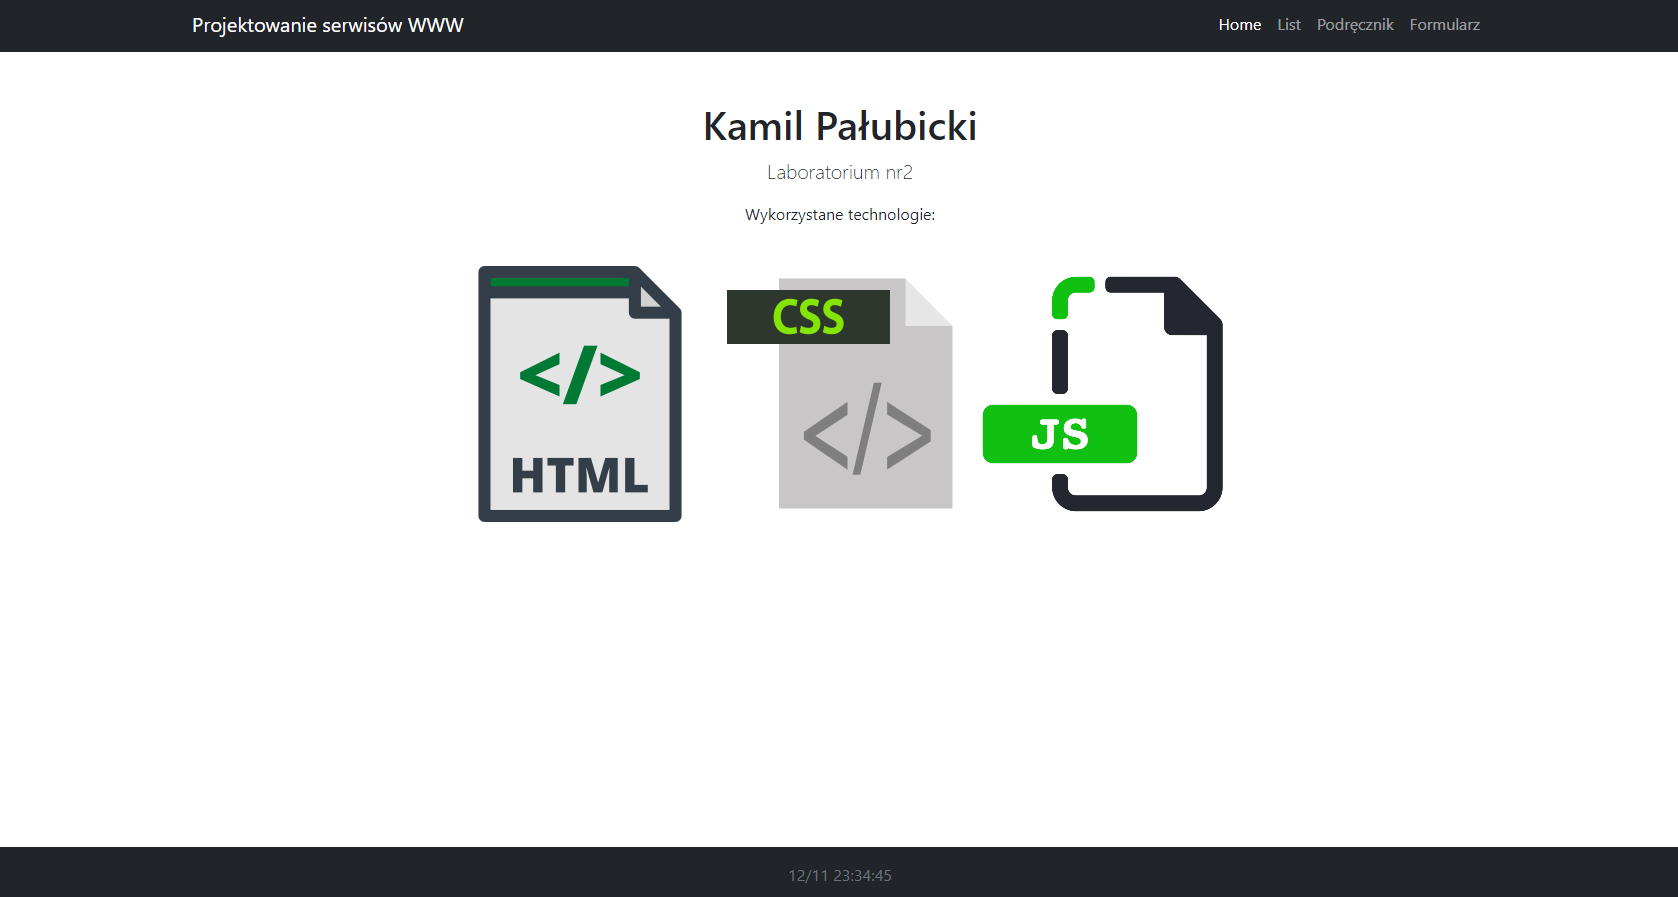
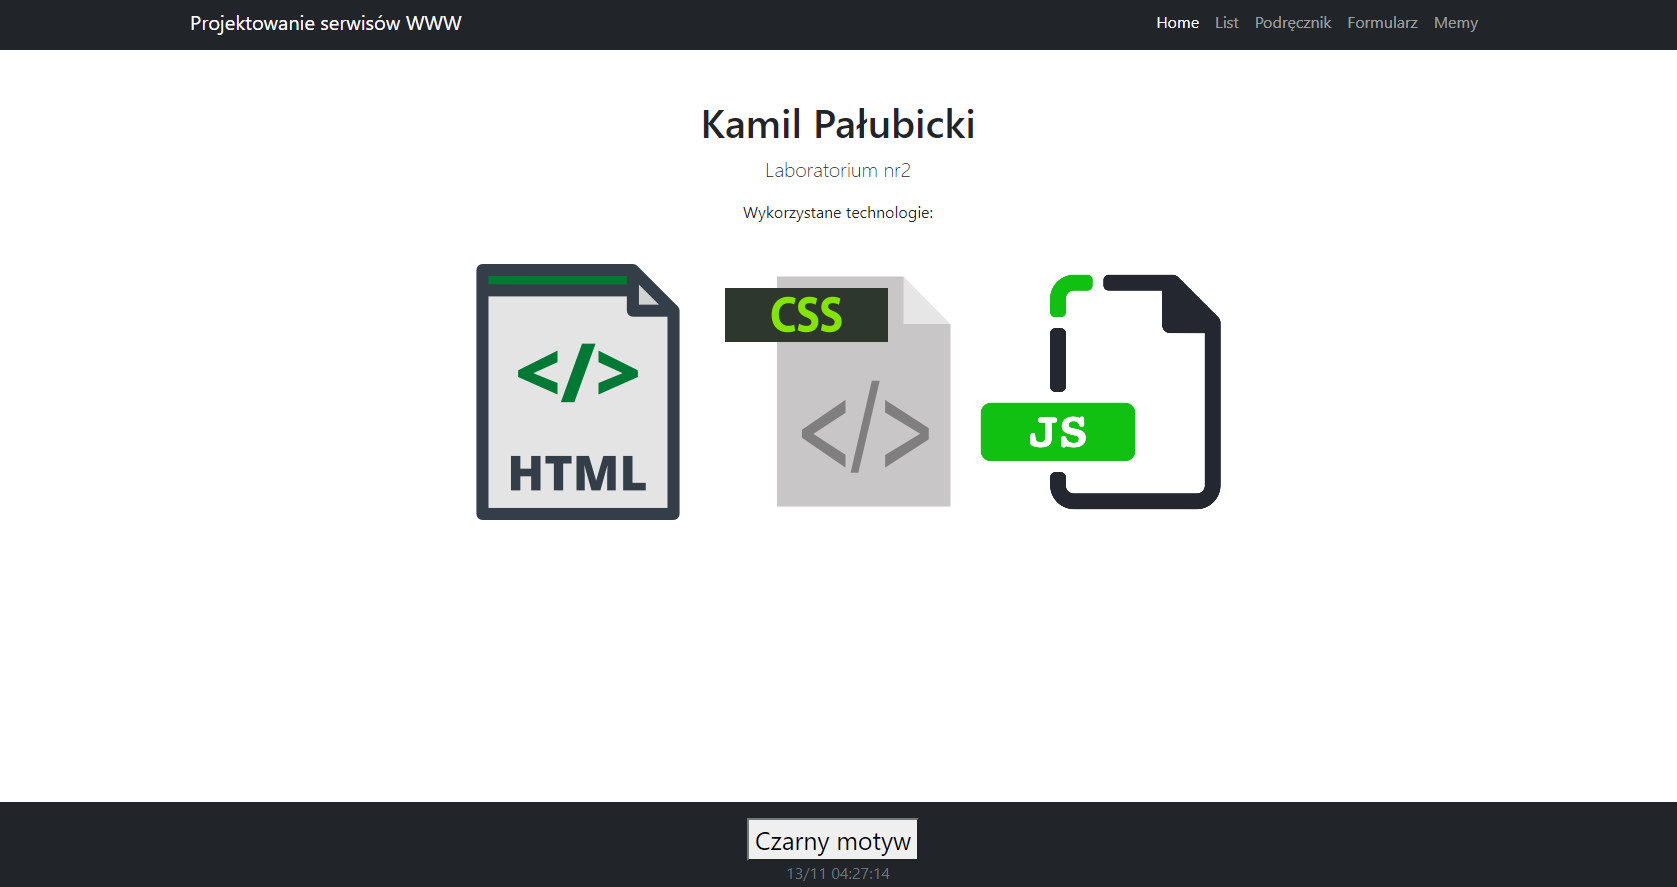
README.md update and add some features

diff --git a/Lab2/memy.html b/Lab2/memy.html
@@ -1,0 +1,66 @@
+<!DOCTYPE html>
+<html lang="en">
+<head>
+    <meta charset="utf-8" />
+    <meta name="viewport" content="width=device-width, initial-scale=1, shrink-to-fit=no" />
+    <meta name="description" content="" />
+    <meta name="author" content="Kamil Pałubicki" />
+    <title></title>
+    <!-- Favicon-->
+    <link rel="icon" type="image/x-icon" href="assets/favicon.ico" />
+    <!-- Core theme CSS (includes Bootstrap)-->
+    <link href="css/styles.css" rel="stylesheet" />
+    <link href="css/lidi.css" rel="stylesheet" />
+</head>
+<body onload="lidi.attach()" id="content">
+<!-- Responsive navbar-->
+<nav class="navbar navbar-expand-lg navbar-dark bg-dark">
+    <div class="container">
+        <a class="navbar-brand" href="#">Projektowanie serwisów WWW</a>
+        <button class="navbar-toggler" type="button" data-bs-toggle="collapse" data-bs-target="#navbarSupportedContent" aria-controls="navbarSupportedContent" aria-expanded="false" aria-label="Toggle navigation"><span class="navbar-toggler-icon"></span></button>
+        <div class="collapse navbar-collapse" id="navbarSupportedContent">
+            <ul class="navbar-nav ms-auto mb-2 mb-lg-0">
+                <li class="nav-item"><a class="nav-link" href="index.html">Home</a></li>
+                <li class="nav-item"><a class="nav-link" href="list.html">List</a></li>
+                <li class="nav-item"><a class="nav-link" href="podrecznik.html">Podręcznik</a></li>
+                <li class="nav-item"><a class="nav-link" href="formularz.html">Formularz</a></li>
+                <li class="nav-item"><a class="nav-link active" aria-current="page" href="memy.html">Memy</a></li>
+            </ul>
+        </div>
+    </div>
+</nav>
+<!-- Page content-->
+<div class="container">
+    <div class="text-center mt-5">
+        <h1>Memy</h1>
+        <img src="img/jsmeme.png"><br><br>
+        <div class="buttons-like-dislike" id="demoA"></div><br><br><br><br><br><br><br><br>
+    </div>
+</div>
+<footer class="footer-sticky mt-auto py-3 bg-dark">
+    <div class="letter-content" id="button"></div>
+    <div id="clock" class="text-muted">
+        time
+    </div>
+</footer>
+<!-- Bootstrap core JS-->
+<script src="https://cdn.jsdelivr.net/npm/bootstrap@5.1.3/dist/js/bootstrap.bundle.min.js"></script>
+<!-- Core theme JS-->
+<script src="js/index.js"></script>
+<script src="js/lidi.js"></script>
+<script>
+    lidi.create({
+        status : 1, // DEFAULT STATUS, 1 LIKE, -1 DISLIKE
+        hWrap : document.getElementById("demoA"),
+        onChange : (status) => {
+            var data = new FormData();
+            data.append("status", status);
+            fetch("js/1-dummy.txt", { method: "POST", body: data })
+                .then(res => res.text())
+                .then((txt) => { console.log(txt); })
+                .catch((err) => { console.error(err); });
+        }
+    });
+</script>
+</body>
+</html>

diff --git a/Lab2/js/lidi.js b/Lab2/js/lidi.js
@@ -1,0 +1,43 @@
+var lidi = {
+  create : (opt) => {
+    let inst = opt;
+    if (!inst.status) { inst.status = 0; }
+
+    // WRAPPER
+    inst.hWrap.classList.add("lidiWrap");
+    if (inst.count) { inst.hWrap.classList.add("count"); }
+
+    // LIKE BUTTON
+    inst.hUp = document.createElement("div");
+    inst.hUp.className = "lidiUp";
+    if (inst.status==1) { inst.hUp.classList.add("set"); }
+    inst.hWrap.appendChild(inst.hUp);
+
+    // DISLIKE BUTTON
+    inst.hDown = document.createElement("div");
+    inst.hDown.className = "lidiDown";
+    if (inst.status==-1) { inst.hDown.classList.add("set"); }
+    inst.hWrap.appendChild(inst.hDown);
+
+    inst.hUp.addEventListener("click", () => { lidi.updown(inst, true); });
+    inst.hDown.addEventListener("click", () => { lidi.updown(inst, false); });
+
+    return inst;
+  },
+
+  updown : (inst, up) => {
+    if (up) { inst.status = inst.status == 1 ? 0 : 1; }
+    else { inst.status = inst.status == -1 ? 0 : -1; }
+
+    if (inst.status==1) {
+      inst.hUp.classList.add("set");
+      inst.hDown.classList.remove("set");
+    } else if (inst.status==-1) {
+      inst.hUp.classList.remove("set");
+      inst.hDown.classList.add("set");
+    } else {
+      inst.hUp.classList.remove("set");
+      inst.hDown.classList.remove("set");
+    }
+  },
+};

diff --git a/Lab2/index.html b/Lab2/index.html
@@ -11,7 +11,7 @@
         <!-- Core theme CSS (includes Bootstrap)-->
         <link href="css/styles.css" rel="stylesheet" />
     </head>
-    <body>
+    <body id="content">
         <!-- Responsive navbar-->
         <nav class="navbar navbar-expand-lg navbar-dark bg-dark">
             <div class="container">
@@ -23,6 +23,7 @@
                         <li class="nav-item"><a class="nav-link" href="list.html">List</a></li>
                         <li class="nav-item"><a class="nav-link" href="podrecznik.html">Podręcznik</a></li>
                         <li class="nav-item"><a class="nav-link" href="formularz.html">Formularz</a></li>
+                        <li class="nav-item"><a class="nav-link" href="memy.html">Memy</a></li>
                     </ul>
                 </div>
             </div>

diff --git a/Lab2/js/index.js b/Lab2/js/index.js
@@ -23,3 +23,20 @@ function clock(){
 var darktheme = document.createElement("button");
 darktheme.innerText = "Czarny motyw";
 darktheme.style.marginRight= "10px";
+
+document.getElementById("button").appendChild(darktheme);
+
+darktheme.onclick = function(){
+    document.getElementById("container").style.fontSize = "30px";
+};
+
+var content = document.getElementById("content");
+darktheme.onclick = function (){
+    if(content.style.color!=="black"){
+        content.style.backgroundColor="white";
+        content.style.color = "black";
+    }else {
+        content.style.backgroundColor = "black";
+        content.style.color = "white";
+    }
+}

diff --git a/Lab2/css/lidi.css b/Lab2/css/lidi.css
@@ -1,0 +1,26 @@
+.lidiWrap {
+    display: flex;
+    align-items: center;
+    padding: 10px;
+    border: 1px solid #c5c5c5;
+    background: #eee;
+    width: 40%;
+    justify-content: space-around;
+}
+.lidiWrap.count { max-width: 250px; }
+
+/* (B) LIKE-DISLIKE BUTTONS */
+.lidiUp, .lidiDown {
+    width: 24px; height: 24px;
+    background-image: url("/img/lidi.png");
+    cursor: pointer;
+}
+.lidiDown { background-position: -48px; }
+.lidiUp.set { background-position: -24px; }
+.lidiDown.set { background-position: -72px; }
+
+/* (C) LIKE-DISLIKE COUNT */
+.lidiUpCount, .lidiDownCount {
+    font-size: 20px;
+    color: #7c7c7c;
+}

diff --git a/Lab2/formularz.html b/Lab2/formularz.html
@@ -24,6 +24,7 @@
         <li class="nav-item"><a class="nav-link" href="list.html">List</a></li>
         <li class="nav-item"><a class="nav-link" href="podrecznik.html">Podręcznik</a></li>
         <li class="nav-item"><a class="nav-link active" aria-current="page" href="formularz.html">Formularz</a></li>
+        <li class="nav-item"><a class="nav-link" href="memy.html">Memy</a></li>
       </ul>
     </div>
   </div>

diff --git a/Lab2/podrecznik.html b/Lab2/podrecznik.html
@@ -23,6 +23,7 @@
         <li class="nav-item"><a class="nav-link" href="list.html">List</a></li>
         <li class="nav-item"><a class="nav-link active" aria-current="page" href="podrecznik.html">Podręcznik</a></li>
         <li class="nav-item"><a class="nav-link" href="formularz.html">Formularz</a></li>
+        <li class="nav-item"><a class="nav-link" href="memy.html">Memy</a></li>
       </ul>
     </div>
   </div>

diff --git a/Lab2/list.html b/Lab2/list.html
@@ -23,6 +23,7 @@
         <li class="nav-item"><a class="nav-link active" aria-current="page">List</a></li>
         <li class="nav-item"><a class="nav-link" href="podrecznik.html">Podręcznik</a></li>
         <li class="nav-item"><a class="nav-link" href="formularz.html">Formularz</a></li>
+        <li class="nav-item"><a class="nav-link" href="memy.html">Memy</a></li>
       </ul>
     </div>
   </div>

diff --git a/Lab2/css/styles.css b/Lab2/css/styles.css
@@ -85,11 +85,18 @@
   font-size:25px;
 }
 .footer-sticky {
+  overflow:auto;
   position: fixed;
   left: 0;
   bottom: 0;
   width: 100%;
   text-align: center;
+}
+
+.buttons-like-dislike{
+  left: 30%;
+  width: 50%;
+  position: absolute;
 }
 
 .form-custom {

diff --git a/Lab2/README.md b/Lab2/README.md
@@ -6,6 +6,10 @@
 
 <img src="assets/index.png" alt="index"  style="float: left;" />
 
+<p>Dostępny jest również czarny motyw strony:<br></p>
+
+<img src="assets/index2.png" alt="index"  style="float: left;" />
+
 
 # list.html
 
@@ -31,3 +35,13 @@
 <p><br>Wysłanie formularza:<br></p>
 
 <img src="assets/form2.png" alt="formularz"  style="float: left;" />
+
+# memy.html
+
+<p>Powstała także podstrona zawierająca memy (na ten moment 1), możemy ją przeglądać również w ciemnym motywie<br></p>
+
+<img src="assets/memy.png" alt="memy"  style="float: left;" />
+
+<p><br>Jest też możliwosć ocenienia "łapką w górę" lub "w dół" ukazanego mema<br></p>
+
+<img src="assets/memy2.png" alt="memy"  style="float: left;" />
